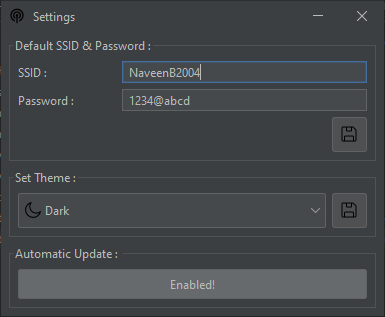
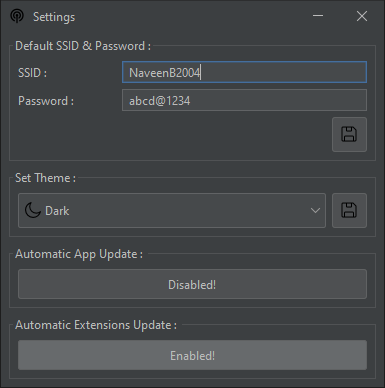
doc updates

diff --git a/README.md b/README.md
@@ -57,7 +57,7 @@ It's very easy to use `Hotspot Maker`. Let's take a look at each interface.
 
 - Settings Interface\
   ![Settings Interface](Others/Media/Interface2.PNG "Settings Interface")\
-  Here, you can save a default profile, set themes & change the automatic update settings.
+  Here, you can save a default profile, set themes, change the automatic app update settings & change automatic extensions update settigs.
 
 - About Interface\
   ![About Interface](Others/Media/Interface3.PNG "About Interface")\
